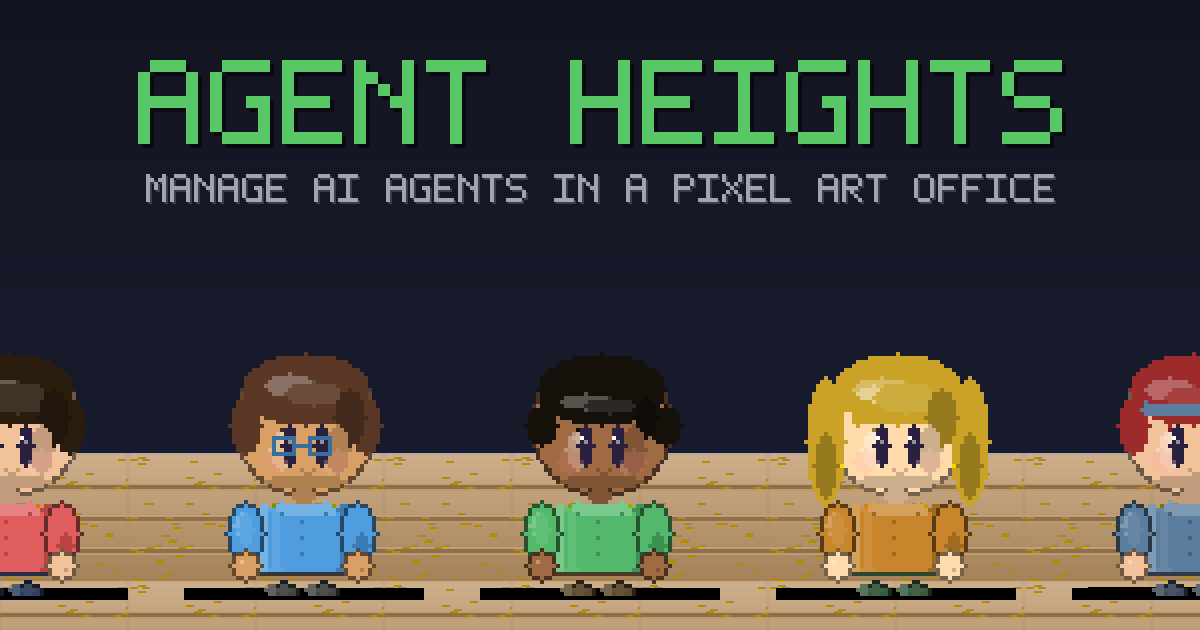
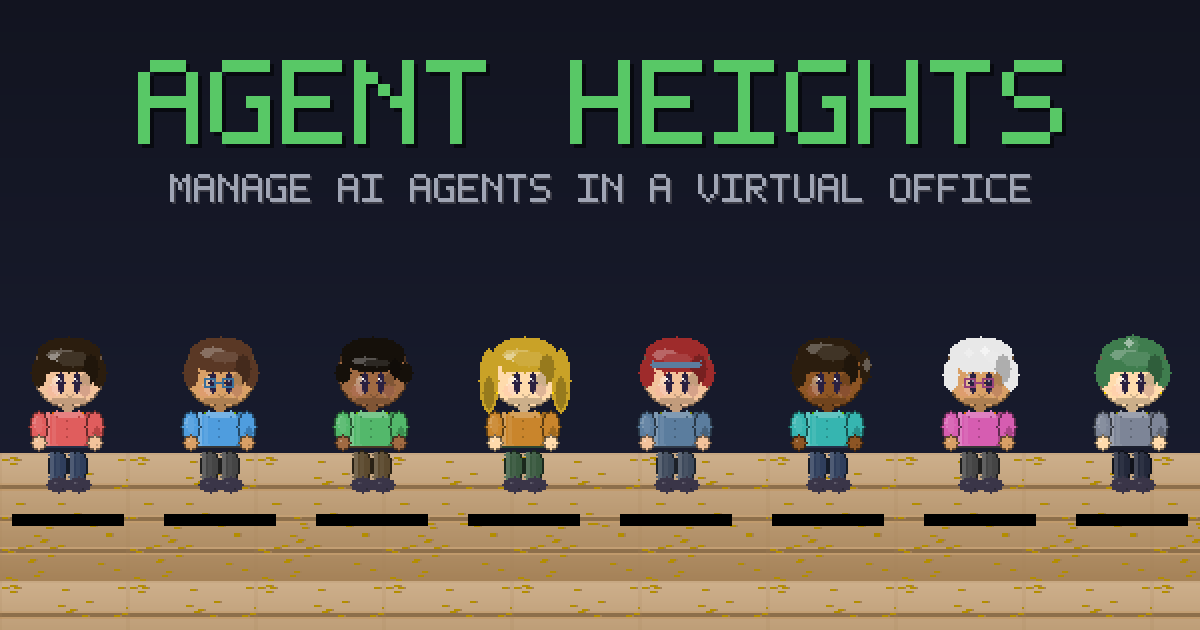
fix: update OG image with current sprites (64×96 frames, 8 chars, agentHeights tileset)

diff --git a/scripts/generate-og-image.ts b/scripts/generate-og-image.ts
@@ -130,7 +130,7 @@ for (let y = 0; y < H; y++) {
 }
 
 // Tile the office floor across the bottom third as a subtle background
-const tileset = loadPNG(join(assetsDir, "tilesets", "office.png"));
+const tileset = loadPNG(join(assetsDir, "tilesets", "agentHeights.png"));
 const TILE = 64;
 const FLOOR_SCALE = 2;
 const floorY = Math.floor(H * 0.72);
@@ -174,29 +174,30 @@ drawText(img, subtitle, subX + 2, titleY + 7 * titleScale + 30 + 2, subScale, 60
 drawText(img, subtitle, subX, titleY + 7 * titleScale + 30, subScale, 160, 165, 180);
 
 // ── Character sprites along the bottom ────────────────────────────────────
-const charFiles = ["char-0.png", "char-1.png", "char-2.png", "char-3.png", "char-4.png"];
-const charScale = 4;
-const charSpacing = 200;
-const charTotalW = charFiles.length * charSpacing - (charSpacing - 64 * charScale);
-const charStartX = Math.floor((W - (charFiles.length * 64 * charScale + (charFiles.length - 1) * 40)) / 2);
-const charY = 340;
+const charFiles = ["char-0.png", "char-1.png", "char-2.png", "char-3.png", "char-4.png", "char-5.png", "char-6.png", "char-7.png"];
+const FRAME_W = 64;
+const FRAME_H = 96;
+const charScale = 2;
+const charGap = 24;
+const charStartX = Math.floor((W - (charFiles.length * FRAME_W * charScale + (charFiles.length - 1) * charGap)) / 2);
+const charY = 330;
 for (let i = 0; i < charFiles.length; i++) {
   const char = loadPNG(join(assetsDir, "characters", charFiles[i]));
-  // Extract the first frame (top-left 64×64 region of the spritesheet)
-  const frame = new PNG.PNG({ width: 64, height: 64 });
-  for (let yy = 0; yy < 64; yy++) {
-    for (let xx = 0; xx < 64; xx++) {
+  // Extract the first frame (top-left 64×96 region of the spritesheet)
+  const frame = new PNG.PNG({ width: FRAME_W, height: FRAME_H });
+  for (let yy = 0; yy < FRAME_H; yy++) {
+    for (let xx = 0; xx < FRAME_W; xx++) {
       const si = (yy * char.width + xx) * 4;
-      const di = (yy * 64 + xx) * 4;
+      const di = (yy * FRAME_W + xx) * 4;
       frame.data[di] = char.data[si];
       frame.data[di + 1] = char.data[si + 1];
       frame.data[di + 2] = char.data[si + 2];
       frame.data[di + 3] = char.data[si + 3];
     }
   }
-  const px = charStartX + i * (64 * charScale + 40);
+  const px = charStartX + i * (FRAME_W * charScale + charGap);
   // Shadow under each character
-  fillRect(img, px + 8, charY + 64 * charScale - 8, 64 * charScale - 16, 12, 0, 0, 0);
+  fillRect(img, px + 8, charY + FRAME_H * charScale - 8, FRAME_W * charScale - 16, 12, 0, 0, 0);
   blend(img, frame, px, charY, charScale);
 }
 
